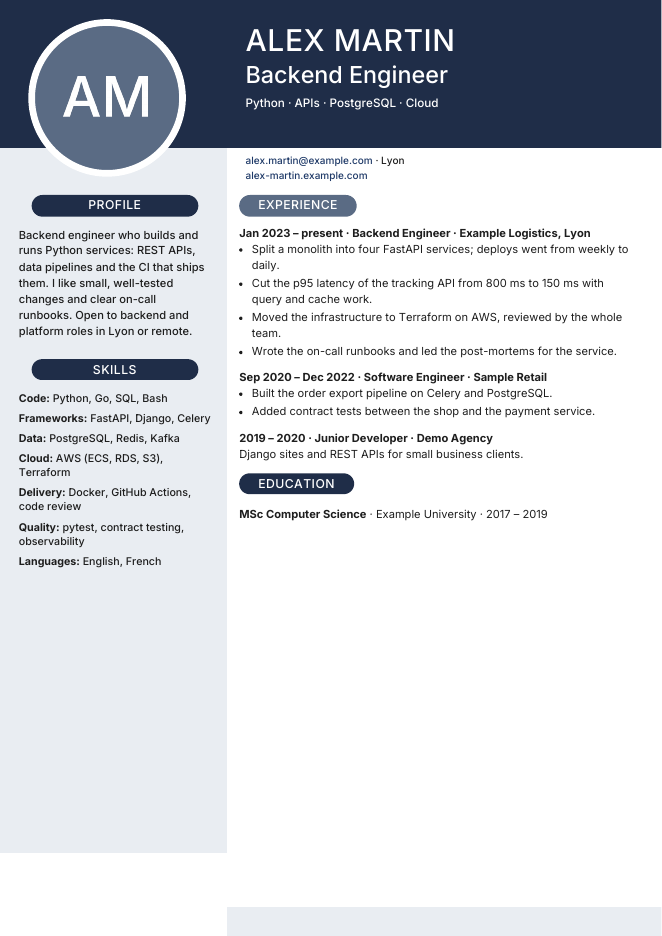
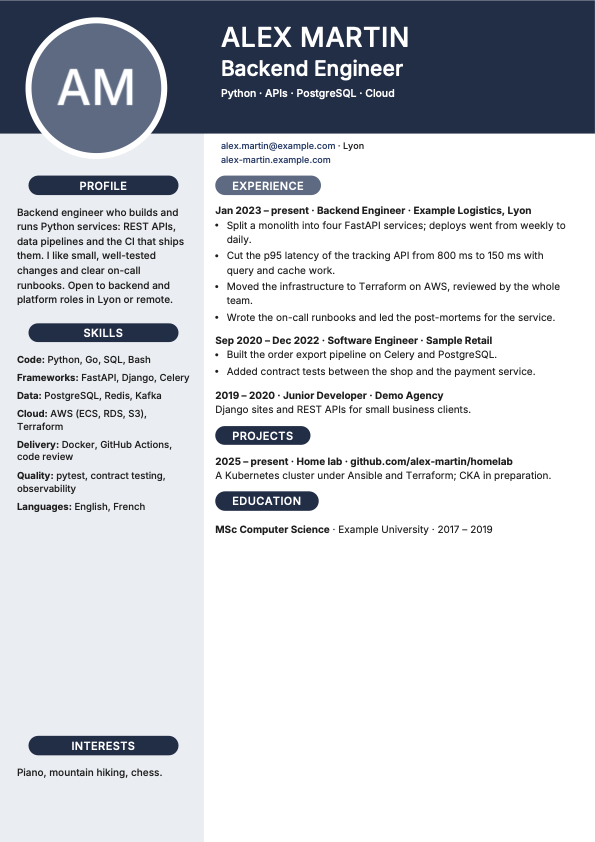
docs: the example shows projects and interests, README names the optional blocks and the themes
The fictional profile carries one project and an interests line, the README
demo image is rebuilt from it.

diff --git a/profiles/_template/content.js b/profiles/_template/content.js
@@ -4,7 +4,7 @@
 // must come out intact in the PDF text, so write them the way job ads write them.
 
 window.PROFILE = {
-  theme: "classic",            // a file in themes/, without .css
+  theme: "classic",            // a file in themes/, without .css: classic, nord or sunny
   fileStem: "CV-Alex-Martin",  // PDF name: out/<id>/<fileStem>-<variant>.pdf
   lang: "en",                  // <html lang>, stored as the PDF language
   photo: null,                 // "photo.png" next to this file, or null for an initials circle
@@ -42,13 +42,14 @@ window.PROFILE = {
         { dates: "2019 \u2013 2020", title: "Junior Developer", org: "Demo Agency",
           text: "Django sites and REST APIs for small business clients." }
       ],
-      // Optional. Personal projects and tech watch, same shape as a job, shown under the experience.
-      // projects: [
-      //   { dates: "2025 \u2013 present", title: "Home lab", org: "github.com/<you>/homelab",
-      //     text: "A Kubernetes cluster under Ansible and Terraform; CKA in preparation." }
-      // ],
+      // Optional. Personal projects and tech watch, same shape as a job, shown under the experience:
+      // readers weigh them, they show what you do beyond the job.
+      projects: [
+        { dates: "2025 \u2013 present", title: "Home lab", org: "github.com/alex-martin/homelab",
+          text: "A Kubernetes cluster under Ansible and Terraform; CKA in preparation." }
+      ],
       // Optional. One line at the bottom of the side column.
-      // interests: "Piano, mountain hiking, chess.",
+      interests: "Piano, mountain hiking, chess.",
       education: [
         { title: "MSc Computer Science", org: "Example University", dates: "2017 \u2013 2019" }
       ],

diff --git a/README.md b/README.md
@@ -12,12 +12,13 @@ A **CV generator** (one-page A4 PDFs, checked for ATS robots) and a private **jo
 
 ```
 cp -R profiles/_template profiles/<you>   # edit profiles/<you>/content.js and facts.md
-                                          #    a variant may add projects: personal projects and tech watch, shown under the experience
 ./build.sh <you>                          # -> out/<you>/*.pdf
 ./tracker.sh                              # -> http://127.0.0.1:8765/
 ./new-application.sh "Company" "Role" main  # -> applications/<date>-<company>-<role>/ (posting from clipboard, motivation draft, gap check)
 ./application-cv.sh applications/<dir>    # -> one-off CV for that application, from a variant X added to content.js then removed
 ```
+
+A variant holds the name, headline, tagline, profile, skills, experience, education and contact, plus two optional blocks: `projects`, personal projects and tech watch under the experience, and `interests`, one line at the bottom of the side column. Readers weigh both: they show what you do beyond the job. Themes: `classic` (navy, square), `nord` (the Nord palette, square), `sunny` (yellow and teal, rounded).
 
 With Claude Code or Cursor, give the agent a job posting: `AGENTS.md` and `.claude/skills/new-application/` make it run the whole application, from company research to the tailored CV and the motivation.
 
